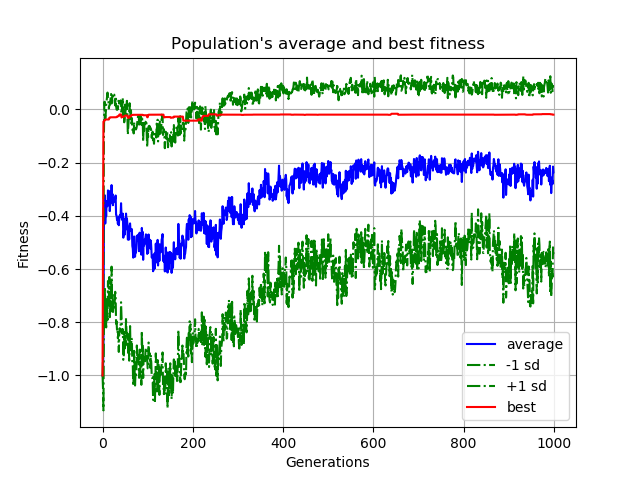
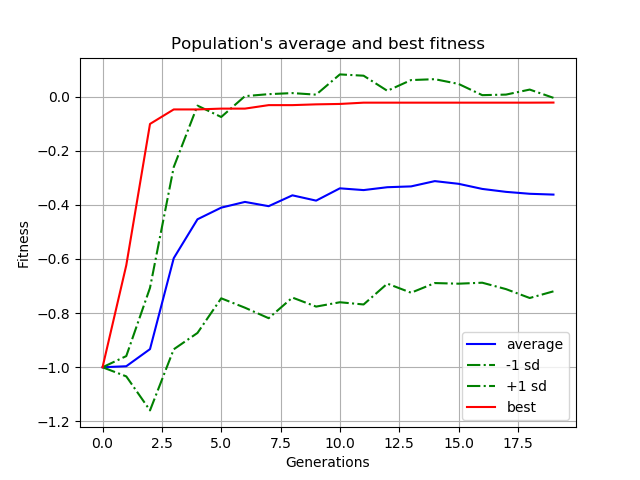
update lynx

diff --git a/lynx/enn_lynx.py b/lynx/enn_lynx.py
@@ -85,7 +85,7 @@ def run(config_file):
 
     # Run for up to 300 generations.
     pe = neat.ParallelEvaluator(multiprocessing.cpu_count(), eval_genome)
-    winner = p.run(pe.evaluate, 1000)
+    winner = p.run(pe.evaluate, 20)
 
     # Display the winning genome.
     print("\nBest genome:\n{!s}".format(winner))

diff --git a/lynx/enn10times_lynx.py b/lynx/enn10times_lynx.py
@@ -84,7 +84,7 @@ def run(config_file):
 
     # Run for up to 300 generations.
     pe = neat.ParallelEvaluator(multiprocessing.cpu_count(), eval_genome)
-    winner = p.run(pe.evaluate, 2000)
+    winner = p.run(pe.evaluate, 200)
 
     return stats
 
